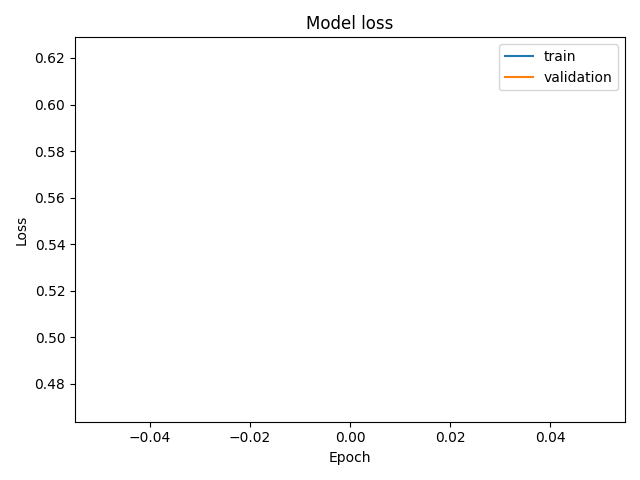
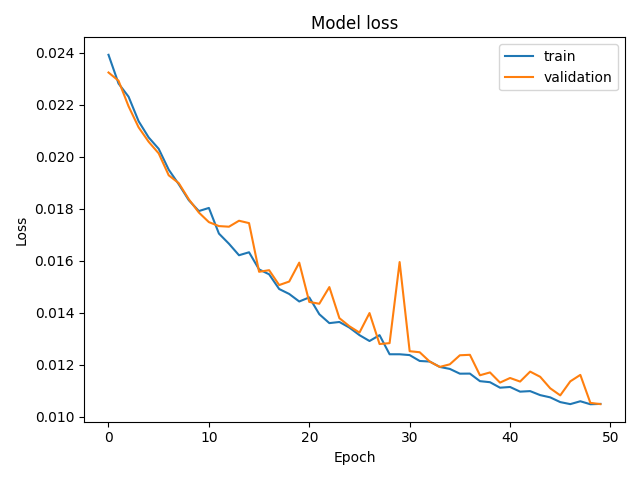
second commit

diff --git a/src/train_cnn.py b/src/train_cnn.py
@@ -6,6 +6,7 @@ os.environ.setdefault("TF_ENABLE_ONEDNN_OPTS", "0")
 os.environ.setdefault("TF_CPP_MIN_LOG_LEVEL", "2")
 
 import numpy as np
+import tensorflow as tf
 from sklearn.model_selection import train_test_split
 from tensorflow.keras.utils import Sequence, to_categorical
 
@@ -47,6 +48,7 @@ def train_cnn(
     batch_size=16,
     seed=42,
     max_samples=None,
+    initial_epoch=0,
 ):
     ensure_dirs()
     set_seed(seed)
@@ -64,7 +66,17 @@ def train_cnn(
     val_seq = ClassificationSequence(val, batch_size=batch_size, shuffle=False)
     test_seq = ClassificationSequence(test, batch_size=batch_size, shuffle=False)
 
-    model = build_cnn_classifier()
+    checkpoint_path = MODEL_DIR / "cnn_classifier.h5"
+    if initial_epoch > 0 and checkpoint_path.exists():
+        print(f"Resuming from checkpoint {checkpoint_path} at epoch {initial_epoch}")
+        model = tf.keras.models.load_model(checkpoint_path)
+        model.compile(
+            optimizer=tf.keras.optimizers.Adam(),
+            loss="categorical_crossentropy",
+            metrics=["accuracy"],
+        )
+    else:
+        model = build_cnn_classifier()
     checkpoint = BestH5ModelSaver(
         MODEL_DIR / "cnn_classifier.h5",
         monitor="val_accuracy",
@@ -75,6 +87,7 @@ def train_cnn(
         train_seq,
         validation_data=val_seq,
         epochs=epochs,
+        initial_epoch=initial_epoch,
         callbacks=[checkpoint],
     )
     save_training_plots(history, "cnn_classifier")
@@ -96,8 +109,9 @@ def main():
     parser.add_argument("--epochs", type=int, default=150)
     parser.add_argument("--batch-size", type=int, default=16)
     parser.add_argument("--max-samples", type=int, default=None)
+    parser.add_argument("--initial-epoch", type=int, default=0)
     args = parser.parse_args()
-    train_cnn(Path(args.data_dir), args.epochs, args.batch_size, max_samples=args.max_samples)
+    train_cnn(Path(args.data_dir), args.epochs, args.batch_size, max_samples=args.max_samples, initial_epoch=args.initial_epoch)
 
 
 if __name__ == "__main__":

diff --git a/src/train_unet.py b/src/train_unet.py
@@ -59,6 +59,7 @@ def pretrain_unet(
     learning_rate=1e-5,
     seed=42,
     max_samples=None,
+    initial_epoch=0,
 ):
     ensure_dirs()
     set_seed(seed)
@@ -73,8 +74,17 @@ def pretrain_unet(
     train_seq = SegmentationSequence(train_pairs, batch_size=batch_size, shuffle=True)
     test_seq = SegmentationSequence(test_pairs, batch_size=batch_size, shuffle=False)
 
-    model = TL_unet_model((256, 256, 3))
-    compile_unet(model, learning_rate=learning_rate, metrics=[dice_score, iou])
+    checkpoint_path = MODEL_DIR / "unet_pretrained.h5"
+    if initial_epoch > 0 and checkpoint_path.exists():
+        print(f"Resuming from checkpoint {checkpoint_path} at epoch {initial_epoch}")
+        model = tf.keras.models.load_model(
+            checkpoint_path,
+            custom_objects={"dice_score": dice_score, "iou": iou},
+        )
+        compile_unet(model, learning_rate=learning_rate, metrics=[dice_score, iou])
+    else:
+        model = TL_unet_model((256, 256, 3))
+        compile_unet(model, learning_rate=learning_rate, metrics=[dice_score, iou])
     checkpoint = BestH5ModelSaver(
         MODEL_DIR / "unet_pretrained.h5",
         monitor="val_loss",
@@ -85,6 +95,7 @@ def pretrain_unet(
         train_seq,
         validation_data=test_seq,
         epochs=epochs,
+        initial_epoch=initial_epoch,
         callbacks=[checkpoint],
     )
     save_training_plots(history, "unet_pretrain")
@@ -98,6 +109,7 @@ def main():
     parser.add_argument("--epochs", type=int, default=100)
     parser.add_argument("--batch-size", type=int, default=8)
     parser.add_argument("--max-samples", type=int, default=None)
+    parser.add_argument("--initial-epoch", type=int, default=0)
     args = parser.parse_args()
     pretrain_unet(
         args.image_dir,
@@ -105,6 +117,7 @@ def main():
         args.epochs,
         args.batch_size,
         max_samples=args.max_samples,
+        initial_epoch=args.initial_epoch,
     )
 
 

diff --git a/src/predict.py b/src/predict.py
@@ -10,12 +10,18 @@ from src.preprocess import read_image
 from src.utils import CLASS_NAMES, MODEL_DIR, SEGMENTED_DIR, ensure_dirs, image_extensions
 
 
-def load_unet(path=MODEL_DIR / "unet_finetuned.h5"):
-    return load_model(path, custom_objects={"dice_score": dice_score, "iou": iou})
+def load_unet(path=MODEL_DIR / "unet_finetuned_fold_1.h5"):
+    from tensorflow.keras.optimizers import Adam
+    model = load_model(path, custom_objects={"dice_score": dice_score, "iou": iou})
+    model.compile(optimizer=Adam(), loss="binary_crossentropy", metrics=[dice_score, iou])
+    return model
 
 
 def load_classifier(path=MODEL_DIR / "cnn_classifier.h5"):
-    return load_model(path)
+    from tensorflow.keras.optimizers import Adam
+    model = load_model(path)
+    model.compile(optimizer=Adam(), loss="categorical_crossentropy", metrics=["accuracy"])
+    return model
 
 
 def segment_image(image_path, unet_model, threshold=0.5):
@@ -87,7 +93,7 @@ def predict_image(image_path, unet_model=None, classifier_model=None):
 def main():
     parser = argparse.ArgumentParser(description="Segment and classify one retinal image")
     parser.add_argument("image_path")
-    parser.add_argument("--unet-model", default=str(MODEL_DIR / "unet_finetuned.h5"))
+    parser.add_argument("--unet-model", default=str(MODEL_DIR / "unet_finetuned_fold_1.h5"))
     parser.add_argument("--cnn-model", default=str(MODEL_DIR / "cnn_classifier.h5"))
     args = parser.parse_args()
     result = predict_image(

diff --git a/src/utils.py b/src/utils.py
@@ -51,6 +51,12 @@ def label_from_path(path):
         return 1
     if "normal" in lower or "non-glaucoma" in lower or "nonglaucoma" in lower:
         return 0
+    # BrG dataset filename convention: imG* = Glaucoma, imN* = Normal
+    stem = Path(path).stem.lower()
+    if stem.startswith("img"):
+        return 1
+    if stem.startswith("imn"):
+        return 0
     raise ValueError(
         f"Cannot infer label for {path}. Place files inside Normal/ and Glaucoma/ folders."
     )

diff --git a/app.py b/app.py
@@ -16,6 +16,8 @@ st.set_page_config(page_title="Glaucoma Detection", layout="wide")
 @st.cache_resource
 def get_models():
     unet_path = MODEL_DIR / "unet_finetuned.h5"
+    if not unet_path.exists():
+        unet_path = MODEL_DIR / "unet_finetuned_fold_1.h5"
     cnn_path = MODEL_DIR / "cnn_classifier.h5"
     if not unet_path.exists() or not cnn_path.exists():
         return None, None

diff --git a/README.md b/README.md
@@ -225,7 +225,7 @@ Configuration from the report:
 Run:
 
 ```powershell
-py -3.12 -m src.train_unet --image-dir data/processed --mask-dir data/masks --epochs 100 --batch-size 8
+py -3.12 -m src.train_unet --image-dir data/processed --mask-dir data/masks --epochs 20 --batch-size 8
 ```
 
 On CPU-only machines, the script automatically reduces segmentation batch size